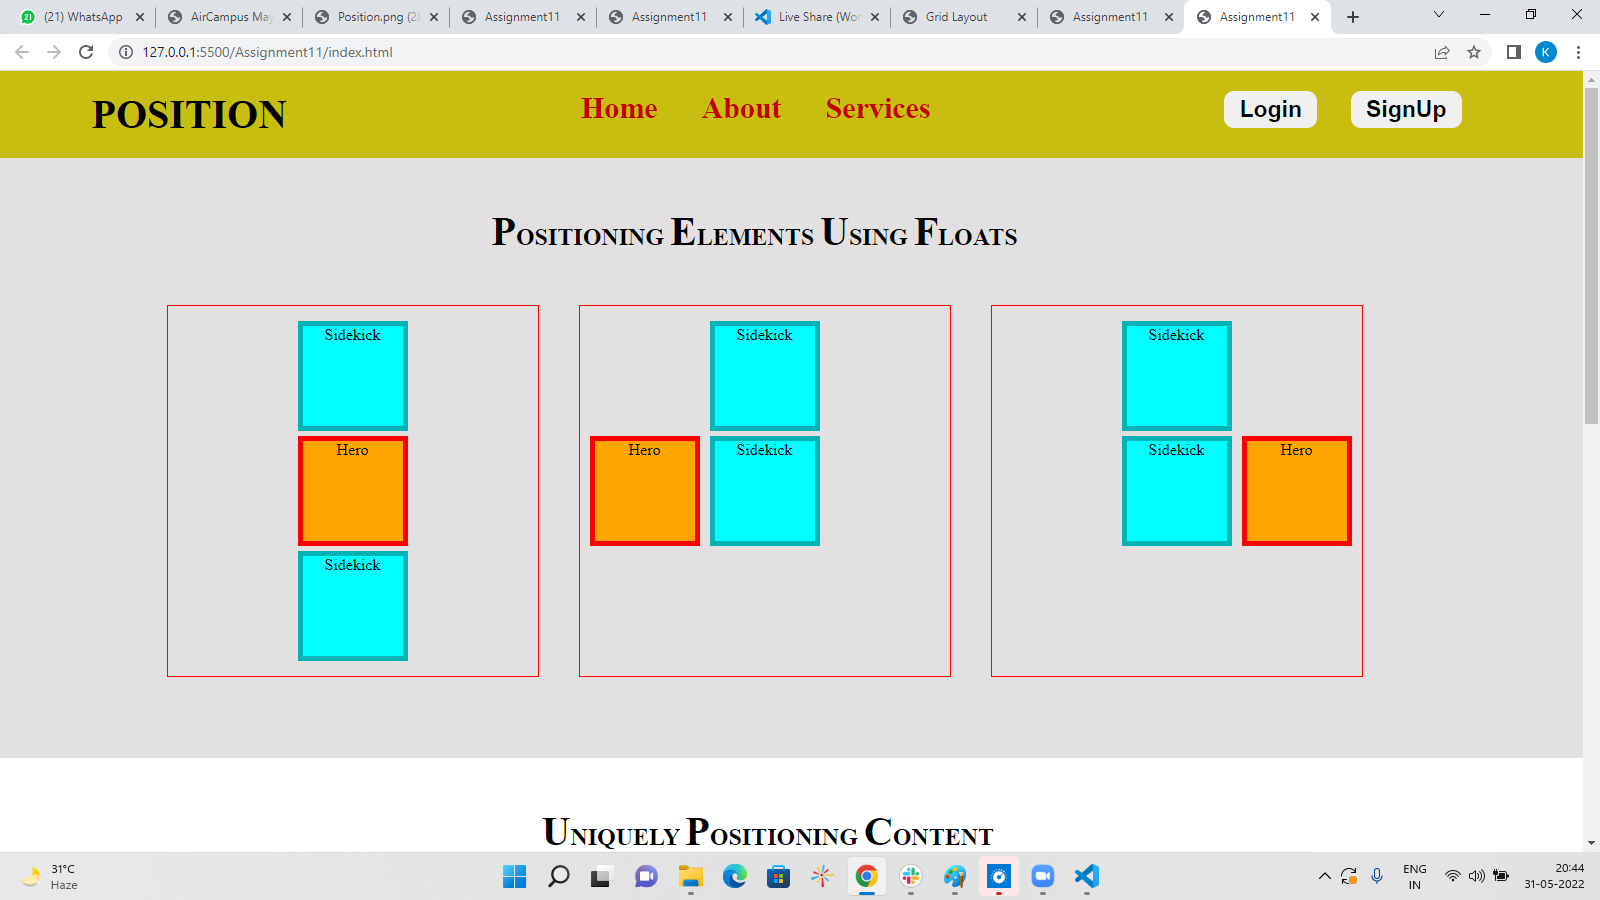
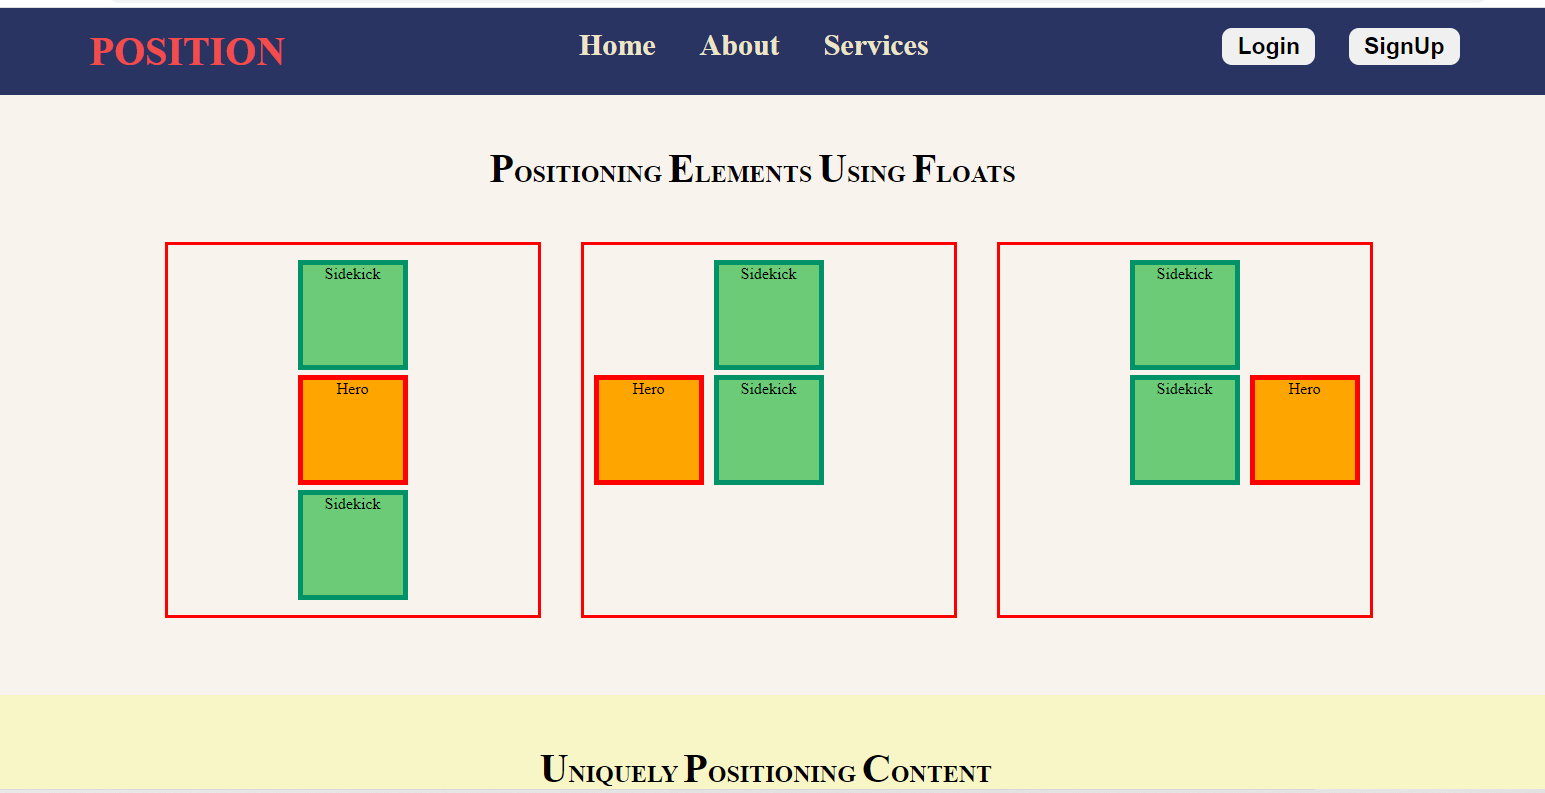
Assignment11

diff --git a/31May/Assignment11/index.html b/31May/Assignment11/index.html
@@ -12,6 +12,8 @@
     <link
         href="https://fonts.googleapis.com/css2?family=PT+Sans&family=Roboto+Mono:wght@200&family=Signika+Negative:wght@300&family=Tiro+Bangla&display=swap"
         rel="stylesheet">
+        <link href='https://unpkg.com/boxicons@2.1.1/css/boxicons.min.css' rel='stylesheet'>
+   
 </head>
 
 <body>
@@ -80,17 +82,166 @@
                         <div class="boxp" id="box17">Hero</div>
                         <div class="boxp" id="box18">Sidekick</div>
                     </div>
-                    
+
                 </div>
                 <div class="outerbox2 para1">
                     <div class="boxp" id="box19">Sidekick</div>
                     <div class="boxp" id="box20">Hero</div>
                     <div class="boxp" id="box21">Sidekick</div>
-                    <p>Lorem ipsum dolor sit amet consectetur adipisicing elit. Modi qui, provident mollitia officia aspernatur dolor quidem, alias praesentium rem temporibus ducimus, culpa repellat consequatur. Est ipsum, sed accusamus magnam molestias fugiat rem in vel excepturi voluptatem esse veniam illo obcaecati enim aperiam vitae recusandae, possimus ab. Incidunt quae ea illum perferendis necessitatibus maxime obcaecati fugit aliquam suscipit omnis cupiditate eum beatae cumque itaque, voluptatibus veritatis aperiam numquam pariatur. Eveniet deserunt velit reprehenderit cum quisquam saepe odit quo omnis pariatur modi. Doloribus voluptates amet est, totam unde dicta repellendus porro suscipit maiores debitis incidunt sequi commodi dolorem dolores doloremque. Quia, quisquam.</p>
+                    <p>Lorem ipsum dolor sit amet consectetur adipisicing elit. Modi qui, provident mollitia officia
+                        aspernatur dolor quidem, alias praesentium rem temporibus ducimus, culpa repellat consequatur.
+                        Est ipsum, sed accusamus magnam molestias fugiat rem in vel excepturi voluptatem esse veniam
+                        illo obcaecati enim aperiam vitae recusandae, possimus ab. Incidunt quae ea illum perferendis
+                        necessitatibus maxime obcaecati fugit aliquam suscipit omnis cupiditate eum beatae cumque
+                        itaque, voluptatibus veritatis aperiam numquam pariatur. Eveniet deserunt velit reprehenderit
+                        cum quisquam saepe odit quo omnis pariatur modi. Doloribus voluptates amet est, totam unde dicta
+                        repellendus porro suscipit maiores debitis incidunt sequi commodi dolorem dolores doloremque.
+                        Quia, quisquam.</p>
                 </div>
-            </div>   
+            </div>
+        </section>
+        <!-- =================Positioning with Flex============== -->
+        <section class="sec3">
+            <div class="container4">
+                <div class="boxhead3">
+                    <h1><span>P</span>ositioning with <span>F</span>lex</h1>
+                </div>
+                <div class="outerdiv flex1">
+                    <div class="flexbox">
+                        <p class="p1">Item1</p>
+                    </div>
+                    <div class="flexbox">
+                        <p class="p1">Item2</p>
+                    </div>
+                    <div class="flexbox">
+                        <p class="p1">Item3</p>
+                    </div>
+                    <div class="flexbox">
+                        <p class="p1">Item4</p>
+                    </div>
+                </div>
+                <hr>
+            </div>
+            <div class="container4">
+                <div class="flex2">
+                    <div class="flexbox">
+                        <p class="p1">Item1</p>
+                    </div>
+                    <div class="flexbox">
+                        <p class="p1">Item2</p>
+                    </div>
+                    <div class="flexbox">
+                        <p class="p1">Item3</p>
+                    </div>
+                    <div class="flexbox">
+                        <p class="p1">Item4</p>
+                    </div>
+                    <div class="flexbox">
+                        <p class="p1">Item5</p>
+                    </div>
+                    <div class="flexbox">
+                        <p class="p1">Item6</p>
+                    </div>
+                    <div class="flexbox">
+                        <p class="p1">Item7</p>
+                    </div>
+                    <div class="flexbox">
+                        <p class="p1">Item8</p>
+                    </div>
+                    <div class="flexbox">
+                        <p class="p1">Item9</p>
+                    </div>
+                    <div class="flexbox">
+                        <p class="p1">Item10</p>
+                    </div>
+                    <div class="flexbox">
+                        <p class="p1">Item11</p>
+                    </div>
+                    <div class="flexbox">
+                        <p class="p1">Item12</p>
+                    </div>
+                    <div class="flexbox">
+                        <p class="p1">Item13</p>
+                    </div>
+                    <div class="flexbox">
+                        <p class="p1">Item14</p>
+                    </div>
+                    <div class="flexbox">
+                        <p class="p1">Item15</p>
+                    </div>
+                    <div class="flexbox">
+                        <p class="p1">Item16</p>
+                    </div>
+                    <div class="flexbox">
+                        <p class="p1">Item17</p>
+                    </div>
+                    <div class="flexbox">
+                        <p class="p1">Item18</p>
+                    </div>
+                    <div class="flexbox">
+                        <p class="p1">Item19</p>
+                    </div>
+                    <div class="flexbox">
+                        <p class="p1">Item20</p>
+                    </div>
+                    <div class="flexbox">
+                        <p class="p1">Item21</p>
+                    </div>
+                    <div class="flexbox">
+                        <p class="p1">Item22</p>
+                    </div>
+                </div>
+                <hr class="line">
+            </div>
+            
+            <div class="container4 flex2">
+                <div class="flexbox">
+                    <p class="p1">Item1</p>
+                </div>
+                <div class="flexbox">
+                    <p class="p1">Item2</p>
+                </div>
+                <div class="flexbox cont1">
+                    <p class="p1">Item3</p>
+                </div>
+                <div class="flexbox">
+                    <p class="p1">Item4</p>
+                </div>
+                <div class="flexbox">
+                    <p class="p1">Item5</p>
+                </div>
+            </div>
+            <div class="container5">
+                <div class="flex3">
+                    <div class="flexbox">
+                        <p class="p1">Item1</p>
+                    </div>
+                    <div class="flexbox">
+                        <p class="p1">Item2</p>
+                    </div>
+                    <div class="flexbox">
+                        <p class="p1">Item3</p>
+                    </div>
+                    <div class="flexbox">
+                        <p class="p1">Item4</p>
+                    </div>
+                    <div class="flexbox">
+                        <p class="p1">Item5</p>
+                    </div>
+                    <div class="flexbox">
+                        <p class="p1">Item6</p>
+                    </div>
+                </div>    
+            </div>
         </section>
     </main>
+    <footer>
+        <div class="icons">
+            <a href="#"><box-icon name='instagram' type='logo' ></box-icon></a>
+            <a href="#"><box-icon name='twitter' type='logo' ></box-icon></a>
+            <a href="#"><box-icon type='logo' name='facebook-circle'></box-icon></a>
+        </div>
+    </footer>
 </body>
 
 </html>

diff --git a/31May/Assignment11/style.css b/31May/Assignment11/style.css
@@ -12,10 +12,11 @@ body{
     justify-content: space-between;
 }
 .head{
-    background-color:#C7BE10;
+    background-color:#293462;
     padding: 20px;
-    /* position: sticky;
-    top: 0; */
+    position: sticky;
+    top: 0;
+    z-index: 500;
 }
 .container1{
     max-width: 1400px;
@@ -24,16 +25,20 @@ body{
 .brand{
     text-transform: uppercase;
     font-size: 20px;
+    color: #F24C4C;
+}
+.brand:hover{
+    color: #ECE5C7;
 }
 .navbar a{
     text-decoration: none;
     padding: 20px;
     font-size: 30px;
     font-weight: bold;
-    color: rgb(194, 0, 0);
+    color: #ECE5C7;
 }
 a:hover{
-    color: black;
+    color:#F7D716;
     text-decoration: underline;
 }
 .btn{
@@ -47,7 +52,7 @@ a:hover{
 
 /* ======= Positioning elements using float===== */
 .sec1{
-    background-color: rgb(226, 224, 224);
+    background-color:#F9F3EE;
     height: 600px;
 }
 .boxhead1{
@@ -72,7 +77,7 @@ span{
 .outerbox1{
     width: 350px;
     height: 350px;
-    border: 1px solid red;
+    border: 3px solid red;
     text-align: center;
     padding: 10px;
     float: left;
@@ -88,8 +93,8 @@ span{
 }
 
 #box1, #box3, #box4, #box6, #box7, #box9{
-    background-color: aqua;
-    border: 5px solid rgb(4, 180, 180);
+    background-color: #6BCB77;
+    border: 5px solid #019267;
   
 }
 #box2, #box5, #box8{
@@ -104,7 +109,8 @@ span{
 }
 /* =======Uniquely Positioning content===== */
 .sec2{
-    margin-top: 50px;
+    padding-top: 50px;
+    background-color: #f8f6c7;
 }
 .container3{
     max-width: 1250px;
@@ -121,7 +127,7 @@ span{
 .outerbox2{
     width: 350px;
     height: 400px;
-    border: 1px solid red;
+    border: 3px solid red;
     text-align: center;
     padding: 10px;
     margin: 20px;
@@ -134,8 +140,8 @@ span{
     margin-top: 20px;
 }
 #box10, #box12, #box13, #box15, #box16, #box18, #box19, #box21{
-    background-color: aqua;
-    border: 5px solid rgb(4, 180, 180);
+    background-color: #F24A72;
+    border: 5px solid #D82148;
 }
 #box11, #box14, #box17, #box20{
     background-color: orange;
@@ -145,13 +151,96 @@ span{
     position: relative;
     top: 50px;
     left: 50px;
+    z-index: 20px;
 }
 #box17{
     position: absolute;
    right: 400px;
+   z-index: 20;
 }
 .para1{
     overflow: scroll;
     position: relative;
     left: 420px;
+    z-index: 20;
+    
+}
+#box20{
+    position: sticky;
+    top: 130px;
+    z-index: 20px;
+}
+/* ============Positioning with FLex========= */
+.sec3{
+    background-color: #FFEEEE;
+    padding-top: 100px;
+}
+.container4{
+    max-width: 1250px;
+    margin: auto;
+    padding: 50px 0px;
+}
+.boxhead3{
+    width: 350px;
+    margin: auto;
+    text-transform: uppercase;
+    margin-bottom: 50px;
+
+}
+.outerdiv{
+    padding-bottom: 50px;
+}
+.flex1{
+    display: flex;
+    justify-content: center;
+    align-items: center;
+    flex-direction: column;
+}
+.flexbox{
+    width: 140px;
+    height: 140px;
+    border: 5px solid #293462 ;
+    background-color: #92B4EC;
+    margin: 10px;
+    border-radius: 8px;
+}
+.flex2{
+    display: flex;
+    flex-wrap: wrap;
+    justify-content: center;
+    margin-bottom: 40px;
+}
+.p1{
+    padding: 55px 45px;
+    font-size: 20px;
+    font-weight: 600;
+}
+.cont1{
+    width: 460px;
+    text-align: center;
+    
+}
+.flex3{
+    display: flex;
+    flex-wrap: wrap;
+    margin: auto;
+    height: 500px;
+    width: 900px;
+    justify-content: space-around;
+    /* justify-content: center; */
+    
+}
+.container5{
+    max-width: 1250px;
+    margin: auto;
+    padding: 50px 0px;
+}
+.line{
+    color: red;
+}
+/* ==================footer=============== */
+.icons{
+    display: flex;
+    justify-content: center;
+    color: black;
 }

diff --git a/31May/Assignment11/readme.md b/31May/Assignment11/readme.md
@@ -2,3 +2,6 @@
 <img src="Images/op1.png" alt="op1">
 <img src="Images/op2.png" alt="op2">
 <img src="Images/op3.png" alt="op3">
+<img src="Images/op4.png" alt="op1">
+<img src="Images/op5.png" alt="op2">
+<img src="Images/op6.png" alt="op3">
